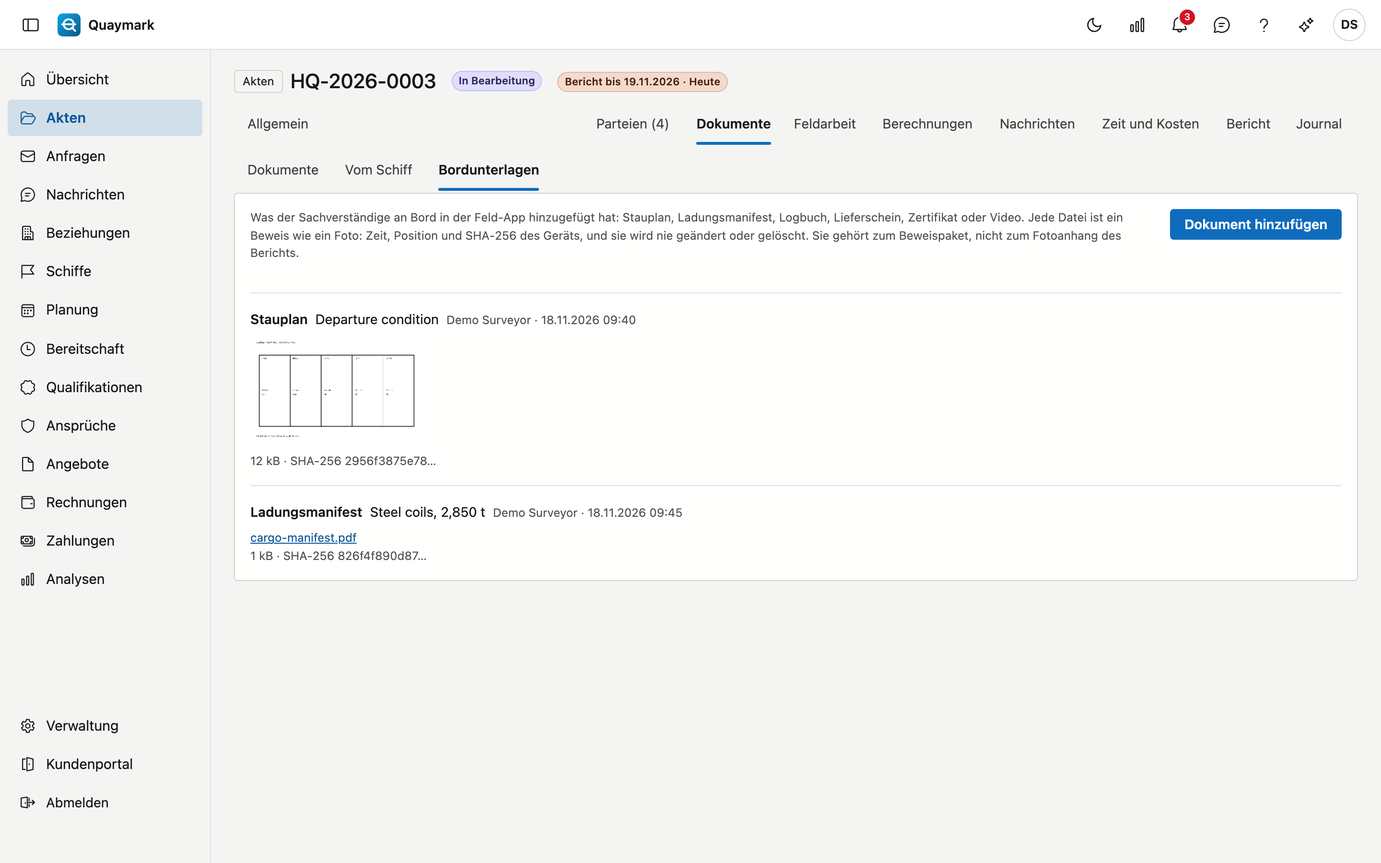
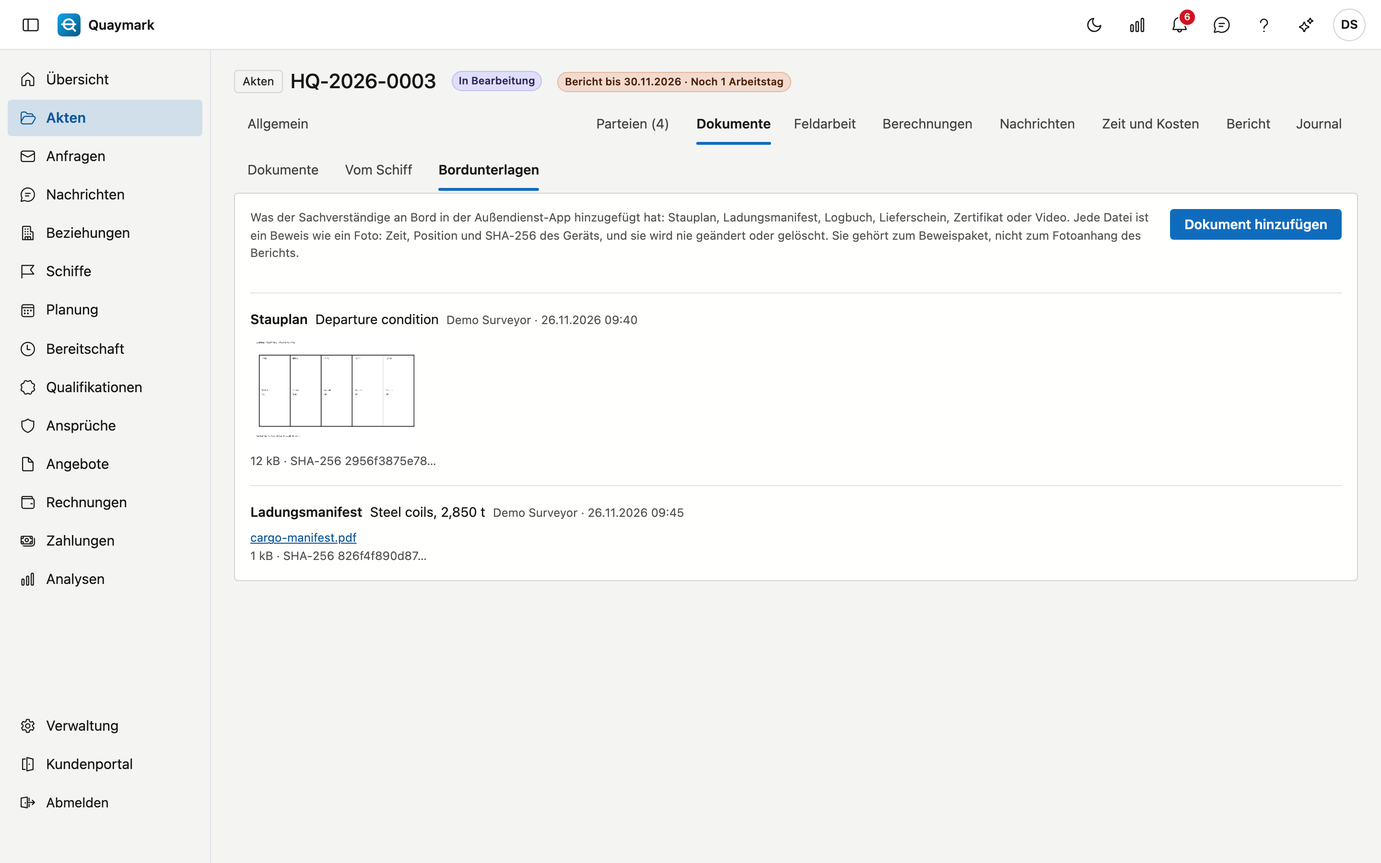
Duits: Außendienst-App in plaats van Feld-App (Quaymark 0.57.2)
Dominique koos op 26/11/2026 "Außendienst-App" als het Duitse woord voor de
veldapp, overal (in de sessie content-hub; de website deed het al), en
bevestigde het gelijktrekken op 27/11 ("Ja, gelijktrekken").

- 54 plaatsen in 19 Duitse pagina's en de navigatiekop Veldapp. Het anker
  van de kop op planning.de.md wordt #in-der-auendienst-app; nergens linkt
  iets naar het oude (gezocht in deze repo, de app en de website).
- Drie Duitse beelden opnieuw gemaakt (boorddocumenten, checklist, codes):
  de enige van de 76 Duitse beelden waarop het woord stond, gevonden met
  tekstherkenning (OCR). Nagemeten: nu op geen enkel Duits beeld meer.
- Films: de Duitse stem van rapport-uitgeven en bewijspakket zegt nog
  "Feld-App" (de websitefilms niet; geen film toont het woord in beeld,
  OCR van een beeld per 2 s over de acht Duitse films). Dat verandert pas
  bij een nieuwe opname; een noot in draaiboek.mjs bij beide regels.

mkdocs build --strict en de drie controles van de uitrol groen.

diff --git a/docs/dossiers.de.md b/docs/dossiers.de.md
@@ -64,11 +64,11 @@ Der **Sachverständige** der Akte erhält am letzten Arbeitstag davor und nach A
 
 ### Feststellungen
 
-Eine **Feststellung** wird hinzugefügt, nie geändert oder gelöscht. Einen Fehler berichtigen Sie mit **Berichtigen** unter **⋯** am Ende der Zeile und einem Grund: die alte Fassung bleibt durchgestrichen sichtbar. Ihre Fotos gehen zur neuen Fassung mit, auf dem Bildschirm und im Bericht. Beim Zeigen auf ein Foto erscheinen Zeitpunkt, GPS-Position und Fingerabdruck (SHA-256), die das Gerät bei der Aufnahme festgehalten hat. Ging die Uhr des Geräts vor, zählt die Empfangszeit, und die Zeit des Geräts bleibt gespeichert: Das Label **Uhr des Geräts ging vor** sagt es, mit beiden Zeiten. Das gilt auch für Fotos und die anderen Stücke aus der Feld-App.
+Eine **Feststellung** wird hinzugefügt, nie geändert oder gelöscht. Einen Fehler berichtigen Sie mit **Berichtigen** unter **⋯** am Ende der Zeile und einem Grund: die alte Fassung bleibt durchgestrichen sichtbar. Ihre Fotos gehen zur neuen Fassung mit, auf dem Bildschirm und im Bericht. Beim Zeigen auf ein Foto erscheinen Zeitpunkt, GPS-Position und Fingerabdruck (SHA-256), die das Gerät bei der Aufnahme festgehalten hat. Ging die Uhr des Geräts vor, zählt die Empfangszeit, und die Zeit des Geräts bleibt gespeichert: Das Label **Uhr des Geräts ging vor** sagt es, mit beiden Zeiten. Das gilt auch für Fotos und die anderen Stücke aus der Außendienst-App.
 
-Hat die Feld-App begonnen, ein Foto hochzuladen, das noch nicht vollständig angekommen ist, steht oben **Noch unterwegs von der Feld-App**: die Datei, wie viel angekommen ist, der Sachverständige mit seinem Gerät und wann es begann. Die Feld-App schließt es ab, sobald das Gerät Verbindung hat; ein inzwischen herausgegebener Bericht enthält das Foto nicht.
+Hat die Außendienst-App begonnen, ein Foto hochzuladen, das noch nicht vollständig angekommen ist, steht oben **Noch unterwegs von der Außendienst-App**: die Datei, wie viel angekommen ist, der Sachverständige mit seinem Gerät und wann es begann. Die Außendienst-App schließt es ab, sobald das Gerät Verbindung hat; ein inzwischen herausgegebener Bericht enthält das Foto nicht.
 
-Eine **abgeschlossene** oder **stornierte** Akte erhält keine Feldarbeit mehr: keine Feststellungen, Checklistenantworten, Fotos oder Unterschriften, auch nicht aus der Feld-App. Was schon da ist, bleibt sichtbar. Auch die Berechnungen (Draft Survey, Eichaufnahme, Bunker Survey, Zeitleiste und Laytime) können dann nur noch gelesen werden.
+Eine **abgeschlossene** oder **stornierte** Akte erhält keine Feldarbeit mehr: keine Feststellungen, Checklistenantworten, Fotos oder Unterschriften, auch nicht aus der Außendienst-App. Was schon da ist, bleibt sichtbar. Auch die Berechnungen (Draft Survey, Eichaufnahme, Bunker Survey, Zeitleiste und Laytime) können dann nur noch gelesen werden.
 
 ![Feststellungen je Ort mit Kategorie, Schweregrad, Beschreibung und Neue Feststellung](images/dossier-vaststellingen-de.png "Feststellungen mit Foto")
 
@@ -78,11 +78,11 @@ Eine **abgeschlossene** oder **stornierte** Akte erhält keine Feldarbeit mehr: 
 
 ### Fotos aus dem Büro
 
-Ohne Feld-App fügen Sie die Fotos im Büro einer Feststellung hinzu: **Fotos hinzufügen** unter **⋯** am Ende der Zeile oder direkt nach **Neue Feststellung**. JPEG oder PNG, bis zu 40 auf einmal.
+Ohne Außendienst-App fügen Sie die Fotos im Büro einer Feststellung hinzu: **Fotos hinzufügen** unter **⋯** am Ende der Zeile oder direkt nach **Neue Feststellung**. JPEG oder PNG, bis zu 40 auf einmal.
 
 - **Aufnahmezeit** und **GPS** stammen aus dem Foto selbst. Die Bildunterschrift im Bericht sagt dann „laut Kamera“.
 - Ohne Aufnahmezeit nennt der Bericht **hochgeladen am** mit dem Zeitpunkt des Hochladens.
-- Auch diese Fotos erhalten einen Fingerabdruck und werden nur hinzugefügt. Sie sind aber schwächerer Beweis als ein Foto aus der Feld-App: Die Zeit stammt von der Uhr der Kamera.
+- Auch diese Fotos erhalten einen Fingerabdruck und werden nur hinzugefügt. Sie sind aber schwächerer Beweis als ein Foto aus der Außendienst-App: Die Zeit stammt von der Uhr der Kamera.
 
 ### Fotos annotieren
 
@@ -98,9 +98,9 @@ Die **Checkliste** zeigt pro Punkt die letzte Antwort, von wem und wann. Die Bes
 
 Eine gute Antwort speichern Sie mit einem Klick. Bei einem Mangel (**Nicht in Ordnung**, **Mangelhaft** oder **Schlecht**) füllen Sie die **Feststellung**, die **Empfehlung** und die **Priorität** aus: **Sofort, vor dem Auslaufen**, **Innerhalb von 3 Monaten**, **Bei der nächsten Wartung** oder **Zur Information**. **Standardbefund einfügen** füllt die drei Felder mit einem Standardtext der Besichtigungsart, in der Sprache der Akte; passen Sie sie danach an. **Neue Feststellung** macht daraus eine Feststellung.
 
-Jede Antwort bleibt unter **Frühere Antworten** erhalten. Vor Ort antwortet der Sachverständige in der Feld-App, mit derselben Skala und denselben Standardbefunden, und nimmt Fotos zu einem beantworteten Punkt auf ([Die Checkliste](veldapp/checklist.md#ein-foto-bei-einem-punkt)). Die Mängel erscheinen im Bericht mit der Markierung `{{aanbevelingen}}` (siehe [Vorlagen](sjablonen.md)).
+Jede Antwort bleibt unter **Frühere Antworten** erhalten. Vor Ort antwortet der Sachverständige in der Außendienst-App, mit derselben Skala und denselben Standardbefunden, und nimmt Fotos zu einem beantworteten Punkt auf ([Die Checkliste](veldapp/checklist.md#ein-foto-bei-einem-punkt)). Die Mängel erscheinen im Bericht mit der Markierung `{{aanbevelingen}}` (siehe [Vorlagen](sjablonen.md)).
 
-Ein zweiter Klick auf eine gute Antwort, die schon dasteht, speichert nichts; bei einem Mangel öffnet er den Befund zum Anpassen. Gibt es für den Punkt schon eine Feststellung, zeigt der Mangel diese statt **Neue Feststellung**. Die letzte Antwort ist die zuletzt gegebene, auch wenn eine Antwort aus der Feld-App erst später eintrifft.
+Ein zweiter Klick auf eine gute Antwort, die schon dasteht, speichert nichts; bei einem Mangel öffnet er den Befund zum Anpassen. Gibt es für den Punkt schon eine Feststellung, zeigt der Mangel diese statt **Neue Feststellung**. Die letzte Antwort ist die zuletzt gegebene, auch wenn eine Antwort aus der Außendienst-App erst später eintrifft.
 
 Die Fotos eines Punktes stehen darunter, auch die einer früheren Antwort, und so kommen sie in den Bericht. Mit **⋯** neben einem Foto nehmen Sie es aus dem Bericht oder annotieren es, wie bei einer Feststellung. **Foto Pflicht** wird rot, solange das Foto fehlt. Im Büro fügen Sie Fotos mit **Fotos hinzufügen** unter **⋯** am Ende der Zeile hinzu.
 
@@ -137,7 +137,7 @@ Ein Klick auf den Titel einer Besichtigung öffnet sie zum Bearbeiten. Danach ä
 
 ### Unterschriften
 
-Vor Ort lässt der Sachverständige den Kapitän, den Ersten Offizier oder das Terminal eine Erklärung unterschreiben: in der Feld-App mit **Unterschreiben** auf der Karte **Unterschriften** ([Unterschreiben lassen](veldapp/laten-tekenen.md)), oder im Büro in der Registerkarte **Unterschriften** mit **Unterschreiben lassen** (zum Beispiel auf einem Tablet am Empfang).
+Vor Ort lässt der Sachverständige den Kapitän, den Ersten Offizier oder das Terminal eine Erklärung unterschreiben: in der Außendienst-App mit **Unterschreiben** auf der Karte **Unterschriften** ([Unterschreiben lassen](veldapp/laten-tekenen.md)), oder im Büro in der Registerkarte **Unterschriften** mit **Unterschreiben lassen** (zum Beispiel auf einem Tablet am Empfang).
 
 1. Geben Sie den **Name des Unterzeichners** ein, wählen Sie die **Funktion** und gegebenenfalls die Partei, in deren Namen er unterschreibt.
 2. Wählen Sie die **Klausel**: **Zum Empfang, ohne Anerkennung einer Haftung** (Standard), **Einverstanden** oder **Gesehen**. Die Erklärung steht in der Sprache der Akte dabei, mit den Feststellungen dieses Moments.
@@ -147,7 +147,7 @@ Verlassen Sie die Seite, nachdem schon unterschrieben oder etwas eingegeben wurd
 
 ![Unterschreiben lassen mit Erklärung und Feststellungen](images/dossier-tekenen-de.png "Unterschreiben lassen")
 
-Eine Unterschrift wird nur hinzugefügt, nie geändert. Quaymark bewahrt, was unterschrieben wurde: die Erklärung und die Liste der Feststellungen dieses Moments (die **Momentaufnahme**, mit ihrem Fingerabdruck), das Bild der Unterschrift mit der Uhrzeit und, auf dem Gerät, die Position. Eine später hinzugefügte oder berichtigte Feststellung ändert eine gegebene Unterschrift nicht. In der Feld-App funktioniert es ohne Netz: die Unterschrift wird gesendet, sobald eine Verbindung besteht.
+Eine Unterschrift wird nur hinzugefügt, nie geändert. Quaymark bewahrt, was unterschrieben wurde: die Erklärung und die Liste der Feststellungen dieses Moments (die **Momentaufnahme**, mit ihrem Fingerabdruck), das Bild der Unterschrift mit der Uhrzeit und, auf dem Gerät, die Position. Eine später hinzugefügte oder berichtigte Feststellung ändert eine gegebene Unterschrift nicht. In der Außendienst-App funktioniert es ohne Netz: die Unterschrift wird gesendet, sobald eine Verbindung besteht.
 
 Die Registerkarte **Unterschriften** zeigt alle, mit dem Bild oder der Verweigerung. Unter **Feststellungen zum Zeitpunkt der Unterschrift** steht die Momentaufnahme, auch als Datei. Eine seither berichtigte Feststellung steht durchgestrichen, und **Seit der Unterzeichnung** zählt die berichtigten und die neuen: Dann bitten Sie vielleicht um eine neue Unterschrift. Quaymark rechnet den Fingerabdruck von Bild und Momentaufnahme nach; stimmt einer nicht mehr, erscheint eine rote Meldung. Zeigen Sie auf das Bild für Zeitpunkt, GPS-Position und Fingerabdruck. Im Bericht erscheinen sie mit der Markierung `{{handtekeningen}}` (siehe [Vorlagen](sjablonen.md)), und sie gehören zum Beweispaket.
 
@@ -155,9 +155,9 @@ Die Registerkarte **Unterschriften** zeigt alle, mit dem Bild oder der Verweiger
 
 ### Bordunterlagen
 
-An Bord erfasst der Sachverständige den Stauplan, das Ladungsmanifest, das Logbuch, einen Lieferschein oder ein Zertifikat in der Feld-App, mit **Hinzufügen** auf der Karte **Bordunterlagen** ([An Bord erfassen](veldapp/aan-boord.md#bordunterlagen)). Er wählt die Art, fotografiert die Seiten, wählt ein PDF oder eine Datei vom Gerät oder nimmt ein kurzes Video auf (ein Foto oder PDF höchstens 50 MB, ein Video höchstens 200 MB). Jede Datei wird zum Beweis wie ein Foto: mit Zeit, Ort und Fingerabdruck (SHA-256) des Moments des Hinzufügens, und sie kommt auch ohne Netz in die Warteschlange.
+An Bord erfasst der Sachverständige den Stauplan, das Ladungsmanifest, das Logbuch, einen Lieferschein oder ein Zertifikat in der Außendienst-App, mit **Hinzufügen** auf der Karte **Bordunterlagen** ([An Bord erfassen](veldapp/aan-boord.md#bordunterlagen)). Er wählt die Art, fotografiert die Seiten, wählt ein PDF oder eine Datei vom Gerät oder nimmt ein kurzes Video auf (ein Foto oder PDF höchstens 50 MB, ein Video höchstens 200 MB). Jede Datei wird zum Beweis wie ein Foto: mit Zeit, Ort und Fingerabdruck (SHA-256) des Moments des Hinzufügens, und sie kommt auch ohne Netz in die Warteschlange.
 
-Im Büro stehen sie auf der Registerkarte **Bordunterlagen**, mit der Art, wer und wann. Ein Foto zeigt eine Miniatur, ein PDF öffnet sich, ein Video spielt im Browser ab. Sie werden nie geändert oder gelöscht. Sie kommen nicht in den Fotoanhang des Berichts, wohl aber in das Beweispaket, mit ihrer Art im Manifest. Ein Dokument, das die Feld-App noch nicht vollständig geliefert hat, steht oben unter **Noch unterwegs von der Feld-App**.
+Im Büro stehen sie auf der Registerkarte **Bordunterlagen**, mit der Art, wer und wann. Ein Foto zeigt eine Miniatur, ein PDF öffnet sich, ein Video spielt im Browser ab. Sie werden nie geändert oder gelöscht. Sie kommen nicht in den Fotoanhang des Berichts, wohl aber in das Beweispaket, mit ihrer Art im Manifest. Ein Dokument, das die Außendienst-App noch nicht vollständig geliefert hat, steht oben unter **Noch unterwegs von der Außendienst-App**.
 
 Kam eine Unterlage per E-Mail, fügen Sie sie im Büro mit **Dokument hinzufügen** hinzu: Wählen Sie die Art, gegebenenfalls eine Beschreibung und die Dateien (Fotos der Seiten, ein PDF oder ein Video). Bis 50 MB pro Datei, ein Video bis 200 MB. Auch das ist ein Nachweis mit Fingerabdruck; Reiter, Beweispaket und Nachweisdaten vermerken **im Büro**. Zeigen Sie auf eine Datei für Zeitpunkt, GPS-Position und Fingerabdruck.
 
@@ -165,7 +165,7 @@ Kam eine Unterlage per E-Mail, fügen Sie sie im Büro mit **Dokument hinzufüge
 
 ### Codes
 
-Der Sachverständige scannt in der Feld-App Barcodes und QR-Codes: **Scannen** auf der Karte **Codes** ([An Bord erfassen](veldapp/aan-boord.md#codes)). Er wählt die Art (Container, Plombe, Probe oder anderer Code) und scannt mit der Kamera, lässt den Code aus einem Foto lesen oder tippt ihn ein. Er kann den Code mit einer Feststellung verknüpfen oder bei der Akte lassen. Ohne Netz wartet er auf dem Gerät.
+Der Sachverständige scannt in der Außendienst-App Barcodes und QR-Codes: **Scannen** auf der Karte **Codes** ([An Bord erfassen](veldapp/aan-boord.md#codes)). Er wählt die Art (Container, Plombe, Probe oder anderer Code) und scannt mit der Kamera, lässt den Code aus einem Foto lesen oder tippt ihn ein. Er kann den Code mit einer Feststellung verknüpfen oder bei der Akte lassen. Ohne Netz wartet er auf dem Gerät.
 
 - Eine **Containernummer** (ISO 6346) besteht aus 4 Buchstaben, der letzte U, J oder Z, und 7 Ziffern; die App schreibt sie in Großbuchstaben ohne Leerzeichen. Stimmt die Prüfziffer nicht, warnt die App, und der Sachverständige darf trotzdem speichern: Der Code erhält die Markierung **Stimmt nicht**.
 - Wer einen gescannten Code korrigiert, macht daraus einen getippten Code: Die Spalte **Quelle** sagt ehrlich, wie er hereinkam.
@@ -199,7 +199,7 @@ Die Prüfung verweigert nichts. Geben Sie mit Befunden heraus, zeigt das Fenster
 
 ### Bericht herausgeben und senden
 
-**Bericht herausgeben** (Registerkarte Bericht, ab dem Status Berichterstellung) öffnet ein einziges Fenster mit allem, was das Herausgeben verlangt. Oben steht, was es verhindert (eine offene Stelle in einem Standardsatz, die Freigabe durch einen zweiten Sachverständigen, ein fehlendes Bild, nicht gespeicherte Abschnitte), alles auf einmal: Beheben Sie es und öffnen Sie das Fenster erneut. Sie wählen die **Berichtsart**: vorläufiger Bericht, Zwischenbericht oder Abschlussbericht; Quaymark schlägt die Art der vorigen Version vor, beim ersten Mal den Abschlussbericht. Bei einer Überarbeitung fragt das Fenster nach dem Grund, ohne angenommene Auftragsbestätigung nach einer Begründung und bei Befunden der Prüfung nach dem Häkchen, dass Sie sie gesehen haben. Hat die Feld-App noch ein Foto oder Dokument unterwegs, sagt das Fenster es ebenfalls. Das Herausgeben legt den Bericht als Version 1 fest, mit seinem Fingerabdruck (SHA-256): Er ändert sich danach nie mehr. Korrigieren = **Neue Version herausgeben**. Die Art steht in der Liste der Versionen, im Namen des PDF, im Betreff der E-Mail und im Auftraggeberportal; im Bericht selbst fügen Sie das Feld **RapportSoort** ein (siehe [Vorlagen](sjablonen.md)). **Senden** schickt eine herausgegebene Version als PDF an den Auftraggeber; die Mail wird im Journal gespeichert. Ist die Version unterschrieben, wird das unterschriebene PDF angehängt, wie im Auftraggeberportal; das Fenster sagt, welches PDF hinausgeht, und warnt, wenn Sie eine durch eine neuere ersetzte Version senden. Speichern Sie zuerst die Abschnitte: Eine Version übernimmt nur gespeicherten Text.
+**Bericht herausgeben** (Registerkarte Bericht, ab dem Status Berichterstellung) öffnet ein einziges Fenster mit allem, was das Herausgeben verlangt. Oben steht, was es verhindert (eine offene Stelle in einem Standardsatz, die Freigabe durch einen zweiten Sachverständigen, ein fehlendes Bild, nicht gespeicherte Abschnitte), alles auf einmal: Beheben Sie es und öffnen Sie das Fenster erneut. Sie wählen die **Berichtsart**: vorläufiger Bericht, Zwischenbericht oder Abschlussbericht; Quaymark schlägt die Art der vorigen Version vor, beim ersten Mal den Abschlussbericht. Bei einer Überarbeitung fragt das Fenster nach dem Grund, ohne angenommene Auftragsbestätigung nach einer Begründung und bei Befunden der Prüfung nach dem Häkchen, dass Sie sie gesehen haben. Hat die Außendienst-App noch ein Foto oder Dokument unterwegs, sagt das Fenster es ebenfalls. Das Herausgeben legt den Bericht als Version 1 fest, mit seinem Fingerabdruck (SHA-256): Er ändert sich danach nie mehr. Korrigieren = **Neue Version herausgeben**. Die Art steht in der Liste der Versionen, im Namen des PDF, im Betreff der E-Mail und im Auftraggeberportal; im Bericht selbst fügen Sie das Feld **RapportSoort** ein (siehe [Vorlagen](sjablonen.md)). **Senden** schickt eine herausgegebene Version als PDF an den Auftraggeber; die Mail wird im Journal gespeichert. Ist die Version unterschrieben, wird das unterschriebene PDF angehängt, wie im Auftraggeberportal; das Fenster sagt, welches PDF hinausgeht, und warnt, wenn Sie eine durch eine neuere ersetzte Version senden. Speichern Sie zuerst die Abschnitte: Eine Version übernimmt nur gespeicherten Text.
 
 ### Bericht unterschreiben lassen
 
@@ -240,7 +240,7 @@ Unter der Schaltfläche steht, worauf sich der Vorschlag stützte. Ihr eigener T
 
 ### Sprachnotizen
 
-An Bord sprechen Sie eine Notiz ein, statt sie zu tippen. Tippen Sie in der Feld-App auf **Diktieren** auf der Karte **Notizen** ([An Bord erfassen](veldapp/aan-boord.md#sprachnotizen)): Das Gerät schreibt die Sprache sofort um. Wählen Sie die Sprache, in der Sie sprechen, und auf Wunsch den Abschnitt des Berichts. Korrigieren Sie danach den Text und speichern Sie. Ohne Verbindung wartet die Notiz auf dem Gerät, wie eine Feststellung. Nur der Text geht an Quaymark, mit Uhrzeit und Ort der Aufnahme; der Ton wird nicht gespeichert. Die Karte **Notizen** in der Feld-App zeigt auch, was schon gesendet ist.
+An Bord sprechen Sie eine Notiz ein, statt sie zu tippen. Tippen Sie in der Außendienst-App auf **Diktieren** auf der Karte **Notizen** ([An Bord erfassen](veldapp/aan-boord.md#sprachnotizen)): Das Gerät schreibt die Sprache sofort um. Wählen Sie die Sprache, in der Sie sprechen, und auf Wunsch den Abschnitt des Berichts. Korrigieren Sie danach den Text und speichern Sie. Ohne Verbindung wartet die Notiz auf dem Gerät, wie eine Feststellung. Nur der Text geht an Quaymark, mit Uhrzeit und Ort der Aufnahme; der Ton wird nicht gespeichert. Die Karte **Notizen** in der Außendienst-App zeigt auch, was schon gesendet ist.
 
 Im Büro stehen die Notizen in der Registerkarte **Bericht**, über den Abschnitten.
 
@@ -340,7 +340,7 @@ Bei einer Besichtigungsart mit dem Haken **Bunkerbesichtigung** (siehe [Besichti
 
 ![Bunkerbesichtigung · Nachher von HQ-2026-0007 mit Tank, Volumen (m³) und Temp. (°C)](images/dossier-bunker-peilingen-de.png "Peilungen")
 
-Vor Ort peilt der Sachverständige in der Feld-App: Die Karte **Bunkerbesichtigung** der Akte zeigt die Tanks je Zeitpunkt ([An Bord erfassen](veldapp/aan-boord.md#bunkerbesichtigung)), mit einer Schätzung in Tonnen. Einen Tank, den das Schiff noch nicht hatte, fügt er dort hinzu. Ohne Verbindung warten die Peilungen auf dem Gerät.
+Vor Ort peilt der Sachverständige in der Außendienst-App: Die Karte **Bunkerbesichtigung** der Akte zeigt die Tanks je Zeitpunkt ([An Bord erfassen](veldapp/aan-boord.md#bunkerbesichtigung)), mit einer Schätzung in Tonnen. Einen Tank, den das Schiff noch nicht hatte, fügt er dort hinzu. Ohne Verbindung warten die Peilungen auf dem Gerät.
 
 Unter den Peilungen steht der Block **Messgeräte**, für **Peilungen vorher** und **Peilungen nachher**: Wählen Sie das Thermometer und das Peilband, mit denen Sie gepeilt haben. Quaymark speichert sie mit ihrer Kalibrierung am Tag dieser Peilungen; eine abgelaufene Kalibrierung gibt eine Warnung. Sie stehen im Bericht unter der Bunkerbesichtigung, und ihre Zertifikate kommen ins Beweispaket. → [Messgeräte](meetapparatuur.md#bei-einer-messung)
 
@@ -373,7 +373,7 @@ Das Ergebnis rechnet beim Tippen mit: erlaubt, verbraucht, Liegegeld oder Despat
 
 In der Registerkarte **Zeit und Kosten** erfassen Sie die **Leistungen** (wer, von wann bis wann, in der Zeit der Niederlassung) und die **Kosten** (Reise, Unterkunft, Labor, Dritte) der Akte, mit dem Beleg aus den Anhängen. Kosten auf **Weiterberechnen** kommen auf die Rechnung. **Bearbeiten** und **Löschen** stehen unter **⋯** neben einer Zeile, die noch auf keiner Rechnung oder Abrechnung steht. **Rechnung vorschlagen** macht daraus einen Rechnungsentwurf; siehe [Rechnungen](facturen.md). Was auf einer Rechnung steht, steht fest. Die Spalte **Geschätzt (EUR)** ist eine Schätzung: Stunden × Stundensatz × Zuschlag (Wochenende, Nacht oder ein Feiertag des Landes der Niederlassung), wie die Rechnung rechnet; die Tarife stehen in EUR, und die Rechnung rechnet in die Währung der Akte um. Unten stehen die Summen; jede Rechnung zeigt ihre eigene Währung.
 
-In der Feld-App erfasst der Sachverständige seine Zeit auf der Karte **Zeit** der Akte ([Zeit erfassen](veldapp/tijd.md)): **Uhr starten** mit einer Art der Arbeit (**An Bord**, **Reisezeit**, **Wartezeit**, **Berichterstellung**), und **Uhr stoppen** öffnet das Fenster, um Beginn und Ende zu prüfen, mit einer Bemerkung. **Zeit erfassen** tut dasselbe von Hand. Es läuft immer nur eine Uhr; sie läuft weiter, wenn die App geschlossen wird. Nach dem Speichern erscheint die Leistung hier, mit der Art in der Sprache der Akte als Beschreibung. Lief die Uhr mehr als 12 Stunden, fragt die App zuerst nach einer Prüfung.
+In der Außendienst-App erfasst der Sachverständige seine Zeit auf der Karte **Zeit** der Akte ([Zeit erfassen](veldapp/tijd.md)): **Uhr starten** mit einer Art der Arbeit (**An Bord**, **Reisezeit**, **Wartezeit**, **Berichterstellung**), und **Uhr stoppen** öffnet das Fenster, um Beginn und Ende zu prüfen, mit einer Bemerkung. **Zeit erfassen** tut dasselbe von Hand. Es läuft immer nur eine Uhr; sie läuft weiter, wenn die App geschlossen wird. Nach dem Speichern erscheint die Leistung hier, mit der Art in der Sprache der Akte als Beschreibung. Lief die Uhr mehr als 12 Stunden, fragt die App zuerst nach einer Prüfung.
 
 ![Zeit und Kosten von ZB-2026-0003 mit Rechnung vorschlagen, Leistungen und Kosten](images/dossier-tijd-kosten-de.png "Zeit und Kosten")
 

diff --git a/docs/veldapp/aan-de-slag.de.md b/docs/veldapp/aan-de-slag.de.md
@@ -1,14 +1,14 @@
 ---
-description: "Die Feld-App von Quaymark: installieren, anmelden, das Menü, Ihr Profil und aktualisieren."
+description: "Die Außendienst-App von Quaymark: installieren, anmelden, das Menü, Ihr Profil und aktualisieren."
 ---
 
-# Erste Schritte mit der Feld-App
+# Erste Schritte mit der Außendienst-App
 
-Mit der Feld-App **Quaymark** arbeitet der Sachverständige an Bord: Er sieht die ihm zugewiesenen Akten, erfasst Feststellungen mit Fotos, beantwortet die Checkliste, lässt unterschreiben und erfasst seine Zeit. Was er tut, steht zuerst auf dem Gerät und geht ans Büro, sobald eine Verbindung besteht. Die App läuft auf einem Telefon und einem Tablet, unter iOS und Android, auf Niederländisch, Französisch, Englisch und Deutsch.
+Mit der Außendienst-App **Quaymark** arbeitet der Sachverständige an Bord: Er sieht die ihm zugewiesenen Akten, erfasst Feststellungen mit Fotos, beantwortet die Checkliste, lässt unterschreiben und erfasst seine Zeit. Was er tut, steht zuerst auf dem Gerät und geht ans Büro, sobald eine Verbindung besteht. Die App läuft auf einem Telefon und einem Tablet, unter iOS und Android, auf Niederländisch, Französisch, Englisch und Deutsch.
 
 ## Zugang
 
-Jeder Benutzer des Büros kann sich in der Feld-App anmelden, mit demselben Benutzernamen oder derselben E-Mail-Adresse und demselben Passwort wie in der Web-App. Auch ein Freiberufler mit der Rolle Freiberufler kann das. → [Freiberufler](../freelancers.md#die-rolle-freiberufler)
+Jeder Benutzer des Büros kann sich in der Außendienst-App anmelden, mit demselben Benutzernamen oder derselben E-Mail-Adresse und demselben Passwort wie in der Web-App. Auch ein Freiberufler mit der Rolle Freiberufler kann das. → [Freiberufler](../freelancers.md#die-rolle-freiberufler)
 
 Die App zeigt nur die **offenen Akten, deren Sachverständiger Sie sind**. Das Büro weist Ihnen eine Akte zu, in der Akte oder in der [Planung](../planning.md).
 
@@ -20,7 +20,7 @@ Installieren Sie die App **Quaymark** aus dem App Store oder von Google Play. Es
 
 ## Anmelden
 
-![Der Anmeldebildschirm der Feld-App: oben das blaue Markenfeld mit Quaymark und Eine Plattform für maritime Sachverständigenbüros, darunter Anmelden mit den Feldern Benutzername oder E-Mail und Passwort und der Schaltfläche Anmelden.](../images/app-aanmelden-de.png "Anmelden in der Feld-App"){ width="320" }
+![Der Anmeldebildschirm der Außendienst-App: oben das blaue Markenfeld mit Quaymark und Eine Plattform für maritime Sachverständigenbüros, darunter Anmelden mit den Feldern Benutzername oder E-Mail und Passwort und der Schaltfläche Anmelden.](../images/app-aanmelden-de.png "Anmelden in der Außendienst-App"){ width="320" }
 
 1. Öffnen Sie die App.
 2. Geben Sie unter **Benutzername oder E-Mail** und **Passwort** Ihre Zugangsdaten ein. Das Auge neben dem Passwort zeigt, was Sie getippt haben.
@@ -34,7 +34,7 @@ Passwort vergessen? Fordern Sie auf dem Anmeldebildschirm der Web-App mit **Pass
 
 ## Das Menü
 
-![Das Seitenmenü der Feld-App: oben Name und E-Mail-Adresse des Sachverständigen, darunter Meine Akten, Noch zu senden, Profil und Datenschutz, unten die Versionsnummer und Abmelden.](../images/app-zijmenu-de.png "Das Menü"){ width="320" }
+![Das Seitenmenü der Außendienst-App: oben Name und E-Mail-Adresse des Sachverständigen, darunter Meine Akten, Noch zu senden, Profil und Datenschutz, unten die Versionsnummer und Abmelden.](../images/app-zijmenu-de.png "Das Menü"){ width="320" }
 
 Oben links öffnet ☰ das Menü:
 

diff --git a/docs/soorten-survey.de.md b/docs/soorten-survey.de.md
@@ -37,7 +37,7 @@ Eine Besichtigungsart: was in der Akte erfasst wird und was der Sachverständige
 - **Abschnitte**: die Textblöcke des Berichts (Einleitung, Befunde, Schlussfolgerung …). Der Sachverständige schreibt sie in der Registerkarte Bericht der Akte; eine Berichtsvorlage zeigt sie mit der Markierung in der Spalte daneben. Eine neue Besichtigungsart startet mit den fünf Standardabschnitten.
 - **Arbeitsanweisung** (eigene Registerkarte): was der Sachverständige bei dieser Art von Auftrag tut, ein Schritt pro Zeile, in vier Sprachen. Jede Akte dieser Art zeigt sie oben, in der Sprache des Benutzers, mit denselben Markierungen wie die [Standardtexte](standaardteksten.md) ausgefüllt.
 - **Registerkarten** (eigene Registerkarte): welche Registerkarten eine Akte dieser Art zeigt. Feststellungen, Checkliste, Schaden, gemeinsame Besichtigung, Unterschriften, Bordunterlagen, Codes, Zeitablauf und Laytime lassen sich ausschalten; die Laytime wird aus dem Zeitablauf berechnet und verschwindet mit ihm. Was schon darin stand, bleibt gespeichert (auch im Bericht und im Beweispaket) und kehrt zurück, sobald Sie es wieder einschalten.
-- Unter **⋯** neben einem Feld, Punkt, Abschnitt oder Standardbefund: **Bearbeiten**, **Nach oben**, **Nach unten** und **Löschen**; ein Doppelklick öffnet es auch. Die Reihenfolge der Liste ist die der Akte, der Feld-App und des Berichts. Änderungen an Feldern, Checkliste und Abschnitten gelten erst nach **Speichern**; **Abbrechen** macht sie rückgängig.
+- Unter **⋯** neben einem Feld, Punkt, Abschnitt oder Standardbefund: **Bearbeiten**, **Nach oben**, **Nach unten** und **Löschen**; ein Doppelklick öffnet es auch. Die Reihenfolge der Liste ist die der Akte, der Außendienst-App und des Berichts. Änderungen an Feldern, Checkliste und Abschnitten gelten erst nach **Speichern**; **Abbrechen** macht sie rückgängig.
 
 ![Standardbefunde mit Feststellung, Empfehlung und Priorität](images/standaardbevindingen-de.png "Standardbefunde")
 

diff --git a/docs/veldapp/mijn-dossiers.de.md b/docs/veldapp/mijn-dossiers.de.md
@@ -1,10 +1,10 @@
 ---
-description: "Meine Akten in der Feld-App: Ihre offenen Akten nach Tag, die laufende Uhr, die Navigation zum Hafen und das Synchronisieren."
+description: "Meine Akten in der Außendienst-App: Ihre offenen Akten nach Tag, die laufende Uhr, die Navigation zum Hafen und das Synchronisieren."
 ---
 
 # Meine Akten
 
-Der erste Bildschirm der Feld-App: die offenen Akten, deren Sachverständiger Sie sind, nach Tag. Die Liste steht auf dem Gerät, sie funktioniert also auch offline.
+Der erste Bildschirm der Außendienst-App: die offenen Akten, deren Sachverständiger Sie sind, nach Tag. Die Liste steht auf dem Gerät, sie funktioniert also auch offline.
 
 ![Meine Akten: oben der Balken Uhr läuft für HQ-2026-0003, An Bord, darunter die Gruppen Früher (noch offen), Heute und Morgen, pro Akte Nummer, Besichtigungsart, Zeitpunkt, Schiff, Hafen und Terminal, und rechts die Schaltfläche zum Navigieren.](../images/app-dossiers-de.png "Meine Akten"){ width="320" }
 
@@ -52,7 +52,7 @@ Oben in der Liste kann eine Meldung stehen:
 
 Auf einem Tablet stehen Liste und Akte nebeneinander: links die Liste, rechts die gewählte Akte. Solange Sie nichts gewählt haben, steht rechts *Wählen Sie links eine Akte.*
 
-![Die Feld-App auf einem iPad: links Meine Akten mit den Gruppen Früher (noch offen), Heute, Morgen, Später und Nicht geplant, rechts die Akte HQ-2026-0003 mit ihren Karten.](../images/app-tablet-de.png "Auf einem Tablet"){ width="560" }
+![Die Außendienst-App auf einem iPad: links Meine Akten mit den Gruppen Früher (noch offen), Heute, Morgen, Später und Nicht geplant, rechts die Akte HQ-2026-0003 mit ihren Karten.](../images/app-tablet-de.png "Auf einem Tablet"){ width="560" }
 
 ## Häufige Fehler
 

diff --git a/docs/mijn-werk.de.md b/docs/mijn-werk.de.md
@@ -4,7 +4,7 @@ description: "Meine Arbeit: die Seite eines freiberuflichen Sachverständigen mi
 
 # Meine Arbeit
 
-Die Seite eines **freiberuflichen Sachverständigen**. Mit der Rolle Freiberufler ist das die einzige Seite, die Sie in der Web-App sehen: Ihre Akten, Ihre Zeit, Ihre Kosten und Ihre Abrechnungen. Die Arbeit vor Ort erledigen Sie in der Feld-App. → [Freiberufler](freelancers.md#die-rolle-freiberufler)
+Die Seite eines **freiberuflichen Sachverständigen**. Mit der Rolle Freiberufler ist das die einzige Seite, die Sie in der Web-App sehen: Ihre Akten, Ihre Zeit, Ihre Kosten und Ihre Abrechnungen. Die Arbeit vor Ort erledigen Sie in der Außendienst-App. → [Freiberufler](freelancers.md#die-rolle-freiberufler)
 
 ## Die Seite öffnen
 
@@ -12,11 +12,11 @@ Melden Sie sich an: Quaymark öffnet **Meine Arbeit** sofort. Im Menü steht sie
 
 ## Meine Akten
 
-Die Ihnen zugewiesenen Akten, mit ihrem Status als farbigem Etikett (blau, was noch kommt, orange, was läuft, grün, was erledigt ist), dem geplanten Zeitpunkt und dem Hafen. Sie öffnen sie in der Feld-App.
+Die Ihnen zugewiesenen Akten, mit ihrem Status als farbigem Etikett (blau, was noch kommt, orange, was läuft, grün, was erledigt ist), dem geplanten Zeitpunkt und dem Hafen. Sie öffnen sie in der Außendienst-App.
 
 ## Meine Zeit
 
-Ihre Zeit erfassen Sie in der Feld-App, in der Akte. Hier sehen Sie alles, was Sie erfasst haben, mit den Stunden. Was auf einer Abrechnung steht, trägt *Abgerechnet*.
+Ihre Zeit erfassen Sie in der Außendienst-App, in der Akte. Hier sehen Sie alles, was Sie erfasst haben, mit den Stunden. Was auf einer Abrechnung steht, trägt *Abgerechnet*.
 
 ## Meine Kosten
 

diff --git a/docs/hoe/freelancer-afrekenen.de.md b/docs/hoe/freelancer-afrekenen.de.md
@@ -7,6 +7,6 @@ description: "Einen freiberuflichen Sachverständigen per Gutschrift abrechnen: 
 1. **Bitten Sie ADM Concept**, den Freiberufler als Benutzer des Büros anzulegen.
 2. **Legen Sie sein Datenblatt an**: Klicken Sie in **Verwaltung** auf die Kachel **Freiberufler** und dann auf **Neuer Freiberufler**. Tragen Sie seine Daten, seinen **Stundensatz (Einkauf)** und seine **Umsatzsteuerregelung** ein. → [Einen Freiberufler hinzufügen](../freelancers.md#einen-freiberufler-hinzufugen)
 3. **Tragen Sie das Datum der Vereinbarung** bei **Gutschriftvereinbarung am** ein. Ohne schriftliche Vereinbarung stellt das Büro keine Rechnung in seinem Namen aus.
-4. **Geben Sie ihm die Rolle Freiberufler**: Dann sieht er nur Meine Arbeit und die Feld-App. → [Die Rolle Freiberufler](../freelancers.md#die-rolle-freiberufler)
-5. **Weisen Sie ihm Akten zu** als Sachverständigem. Er erfasst seine Zeit in der Feld-App und seine Kosten unter Meine Arbeit.
+4. **Geben Sie ihm die Rolle Freiberufler**: Dann sieht er nur Meine Arbeit und die Außendienst-App. → [Die Rolle Freiberufler](../freelancers.md#die-rolle-freiberufler)
+5. **Weisen Sie ihm Akten zu** als Sachverständigem. Er erfasst seine Zeit in der Außendienst-App und seine Kosten unter Meine Arbeit.
 6. **Rechnen Sie ab**: Öffnen Sie den Reiter **Abrechnungen**, wählen Sie den Zeitraum, prüfen Sie den Vorschlag und klicken Sie auf **Abrechnung ausstellen**. → [Abrechnungen](../freelancers.md#abrechnungen)

diff --git a/docs/hoe/off-hire-vergelijken.de.md b/docs/hoe/off-hire-vergelijken.de.md
@@ -6,7 +6,7 @@ description: "Eine Off-Hire-Akte mit dem On-Hire verknüpfen und je Feststellung
 
 1. **Öffnen Sie die On-Hire-Akte und klicken Sie auf Kopieren.** Die neue Akte erhält denselben Auftrag und ist mit dem On-Hire verknüpft. → [Kopieren](../dossiers.md#kopieren)
 2. **Gibt es die Off-Hire-Akte schon?** Wählen Sie dann unter **Verknüpfte Akte** die On-Hire-Akte desselben Schiffs. → [Akte](../dossiers.md#akte)
-3. **Vor Ort** erfasst der Sachverständige die Feststellungen des Off-Hire in der Feld-App. → [Feststellungen](../dossiers.md#feststellungen)
+3. **Vor Ort** erfasst der Sachverständige die Feststellungen des Off-Hire in der Außendienst-App. → [Feststellungen](../dossiers.md#feststellungen)
 4. **Geben Sie je Feststellung Ihre Beurteilung** auf der Registerkarte **Feststellungen**: **Bestand bereits** oder **Neu**. Die Registerkarte zeigt je Ort, was das On-Hire dort festgestellt hat. → [Vergleich mit einer vorigen Akte](../dossiers.md#vergleich-mit-einer-vorigen-akte)
 5. **Geben Sie den Bericht heraus.** Er zeigt den Vergleich je Ort an Bord, mit den Fotonummern und Ihrer Beurteilung. → [Bericht herausgeben und senden](../dossiers.md#bericht-herausgeben-und-senden)
 6. **Brauchen Sie eine Bescheinigung?** Erstellen Sie die On-Hire-/Off-Hire-Bescheinigung mit **Neue Bescheinigung**. → [Schreiben und Bescheinigungen](../dossiers.md#schreiben-und-bescheinigungen)

diff --git a/docs/aan-de-slag.de.md b/docs/aan-de-slag.de.md
@@ -87,7 +87,7 @@ Sie sind über den Link aus der E-Mail von **Passwort vergessen?** hierhergekomm
 Haben Sie auf quaymark.eu eine Testversion angefordert, erhalten Sie eine eigene Umgebung auf den Namen Ihres Büros, gefüllt mit erfundenen Beispieldaten: Beziehungen, Schiffe und Akten mit Feststellungen und Fotos.
 
 - Sie melden sich mit den Daten aus der **Willkommens-E-Mail** an und wählen sofort ein eigenes Passwort.
-- Bei Ihrer ersten Anmeldung werden Sie der **Sachverständige** der Beispielakten: Sie sehen sie in Ihrer Planung, bei den Fristen und in der Feld-App.
+- Bei Ihrer ersten Anmeldung werden Sie der **Sachverständige** der Beispielakten: Sie sehen sie in Ihrer Planung, bei den Fristen und in der Außendienst-App.
 - Oben steht, bis wann die Testversion läuft.
 - Auf der **Übersicht** hilft Ihnen das Feld **Erste Schritte** beim Einstieg: Ihre Firmendaten, Ihre erste eigene Akte und Ihr erster Bericht. Ein Schritt hakt sich selbst ab, sobald Sie ihn erledigt haben. Ist alles erledigt oder klicken Sie auf **Ausblenden**, verschwindet das Feld.
 - In einer Testversion **geht nichts nach außen**: keine E-Mail, kein Peppol, keine Signatur und keine Einladung zum Auftraggeberportal. Vorbereiten und ansehen können Sie alles, auch die Berichte als PDF.

diff --git a/docs/planning.de.md b/docs/planning.de.md
@@ -71,9 +71,9 @@ Der Block warnt, wenn nur Sie etwas lösen können:
 
 **Trennen** leert zuerst den Kalender Quaymark und trennt dann die Verbindung. Den leeren Kalender löschen Sie selbst in Google oder Outlook.
 
-## In der Feld-App
+## In der Außendienst-App
 
-Der Sachverständige sieht seine Planung in der Feld-App, auch ohne Netz: die ihm zugewiesenen offenen Akten, pro Tag (**Früher (noch offen)**, **Heute**, **Morgen**, **Diese Woche**, **Später**, **Nicht geplant**). Bei jeder Akte stehen das Zeitfenster in der Zeit der Niederlassung, das Schiff, der Hafen und das Terminal. **Navigieren** öffnet die Karten-App des Geräts auf Terminal und Hafen. → [Meine Akten in der Feld-App](veldapp/mijn-dossiers.md)
+Der Sachverständige sieht seine Planung in der Außendienst-App, auch ohne Netz: die ihm zugewiesenen offenen Akten, pro Tag (**Früher (noch offen)**, **Heute**, **Morgen**, **Diese Woche**, **Später**, **Nicht geplant**). Bei jeder Akte stehen das Zeitfenster in der Zeit der Niederlassung, das Schiff, der Hafen und das Terminal. **Navigieren** öffnet die Karten-App des Geräts auf Terminal und Hafen. → [Meine Akten in der Außendienst-App](veldapp/mijn-dossiers.md)
 
 ## Siehe auch
 

diff --git a/docs/freelancers.de.md b/docs/freelancers.de.md
@@ -36,7 +36,7 @@ Ein Freiberufler ist ein Benutzer des Büros. Neue Benutzer legt ADM Concept an:
 
 Oben im Datenblatt sehen Sie, ob der Freiberufler die Rolle bereits hat. Klicken Sie auf **Rolle Freiberufler geben** und bestätigen Sie.
 
-Mit dieser Rolle sieht er in der Web-App nur **Meine Arbeit** und in der Feld-App die ihm zugewiesenen Akten. Dort erfasst er Feststellungen, Fotos und seine Zeit, wie jeder Sachverständige. Seine anderen Rollen entfallen, und auf dem Bildschirm **Rollen** steht er nicht bei den Benutzern, denen Sie eine Rolle geben können. Ohne diese Rolle sieht er alles, was ein Mitarbeiter des Büros sieht. Zum Zurücksetzen fragen Sie ADM Concept. → [Meine Arbeit](mijn-werk.md)
+Mit dieser Rolle sieht er in der Web-App nur **Meine Arbeit** und in der Außendienst-App die ihm zugewiesenen Akten. Dort erfasst er Feststellungen, Fotos und seine Zeit, wie jeder Sachverständige. Seine anderen Rollen entfallen, und auf dem Bildschirm **Rollen** steht er nicht bei den Benutzern, denen Sie eine Rolle geben können. Ohne diese Rolle sieht er alles, was ein Mitarbeiter des Büros sieht. Zum Zurücksetzen fragen Sie ADM Concept. → [Meine Arbeit](mijn-werk.md)
 
 ## Abrechnungen
 

diff --git a/docs/veldapp/dossier.de.md b/docs/veldapp/dossier.de.md
@@ -1,10 +1,10 @@
 ---
-description: "Eine Akte in der Feld-App: eine Seite mit Karten, vom Kopf mit dem Schiff bis zu den Besichtigungsdaten, und die Arbeit beginnen und abschließen."
+description: "Eine Akte in der Außendienst-App: eine Seite mit Karten, vom Kopf mit dem Schiff bis zu den Besichtigungsdaten, und die Arbeit beginnen und abschließen."
 ---
 
 # Die Akte
 
-Eine Akte ist in der Feld-App eine Seite mit Karten, in der Reihenfolge der Arbeit an Bord. Jede Karte hat rechts in ihrem Kopf ihre eigene Schaltfläche.
+Eine Akte ist in der Außendienst-App eine Seite mit Karten, in der Reihenfolge der Arbeit an Bord. Jede Karte hat rechts in ihrem Kopf ihre eigene Schaltfläche.
 
 ![Die Akte HQ-2026-0003 oben: der Kopf mit dem Schiff KAAIMEEUW, Zeitpunkt, Hafen, Auftraggeber, dem Etikett In Bearbeitung und der Schaltfläche Vor Ort fertig → Bericht, die Karte Umstände und Anwesende mit Ausfüllen, Wetter, See, Sicht, Liegeplatz und zwei Anwesenden, und die Karte Zeitablauf mit Ereignis.](../images/app-dossier-de.png "Die Akte"){ width="320" }
 

diff --git a/docs/hoe/nieuw-dossier.de.md b/docs/hoe/nieuw-dossier.de.md
@@ -10,6 +10,6 @@ description: "Von der leeren Liste zu einer Akte, die der Sachverständige vor O
 4. **Füllen Sie Ort und Planung aus:** Schiff, Hafen, Terminal oder Kai und den geplanten Zeitpunkt. Gibt es das Schiff noch nicht, legen Sie es zuerst an. → [Schiffe](../schepen.md#die-liste)
 5. **Speichern Sie.** Die Akte erhält jetzt ihre Nummer; danach steht die Niederlassung fest.
 6. **Fügen Sie die anderen Beteiligten hinzu** auf der Registerkarte **Parteien**, mit Rolle und Referenz. → [Akte](../dossiers.md#akte)
-7. **Vor Ort** erfasst der Sachverständige Feststellungen und Checklisten-Antworten in der Feld-App; sie erscheinen in der Akte. → [Feststellungen](../dossiers.md#feststellungen)
+7. **Vor Ort** erfasst der Sachverständige Feststellungen und Checklisten-Antworten in der Außendienst-App; sie erscheinen in der Akte. → [Feststellungen](../dossiers.md#feststellungen)
 
 Siehe auch: [Wie vergleiche ich ein Off-Hire mit dem On-Hire?](off-hire-vergelijken.md)
